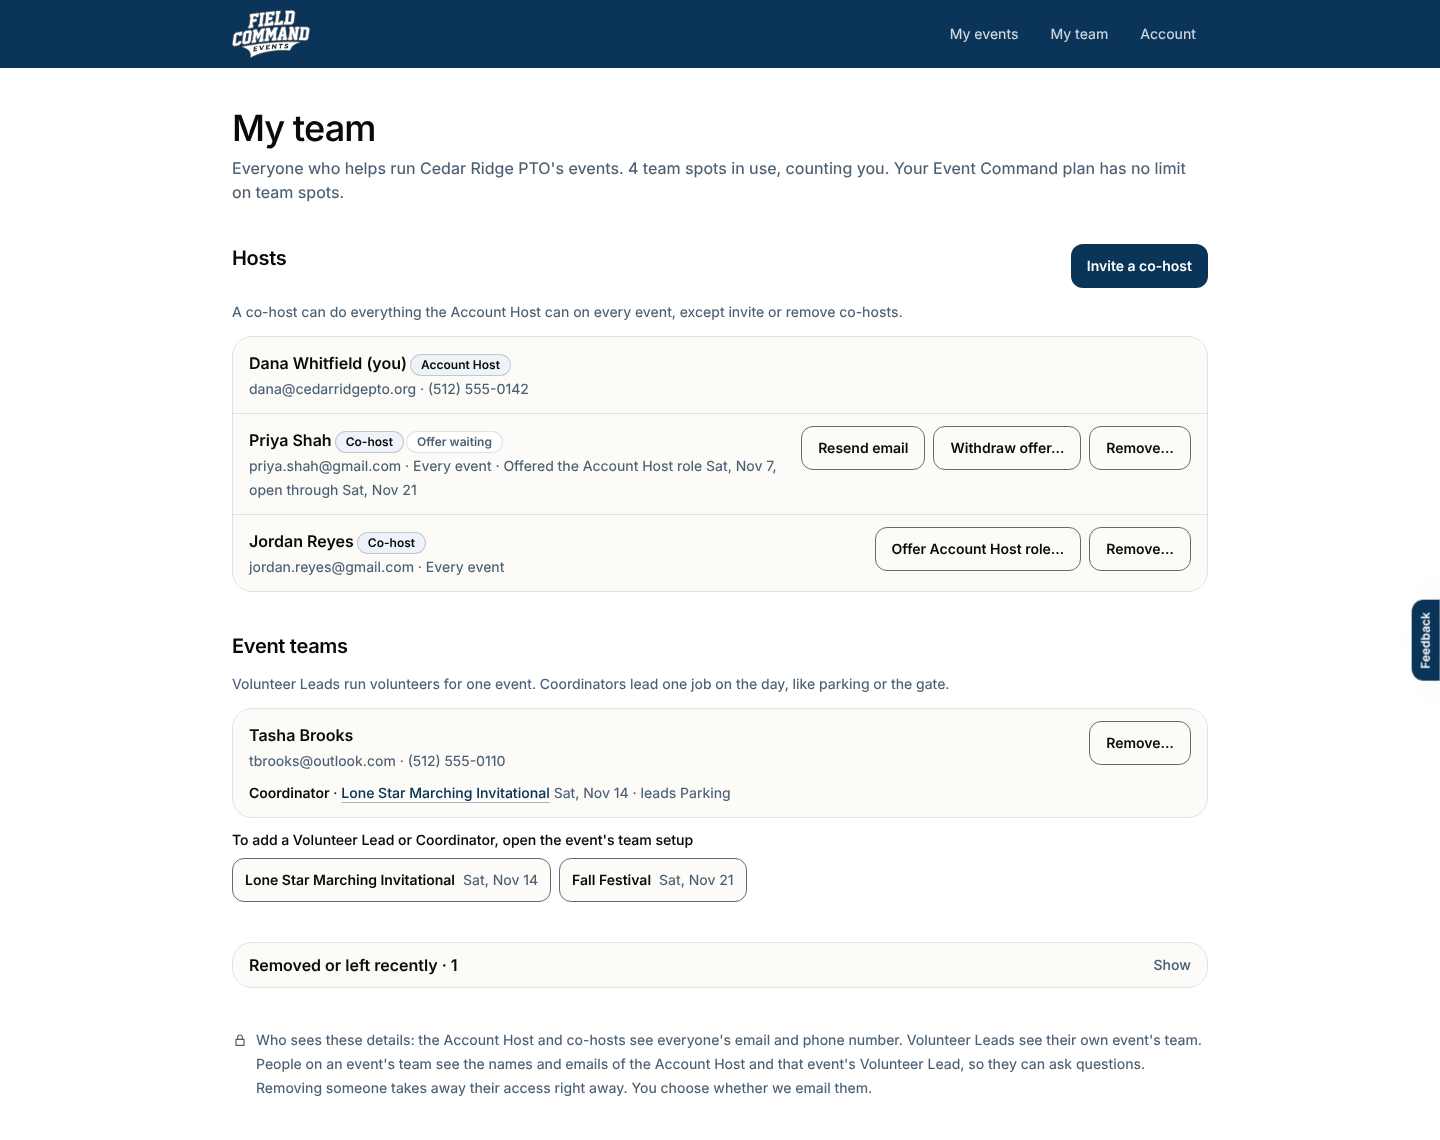
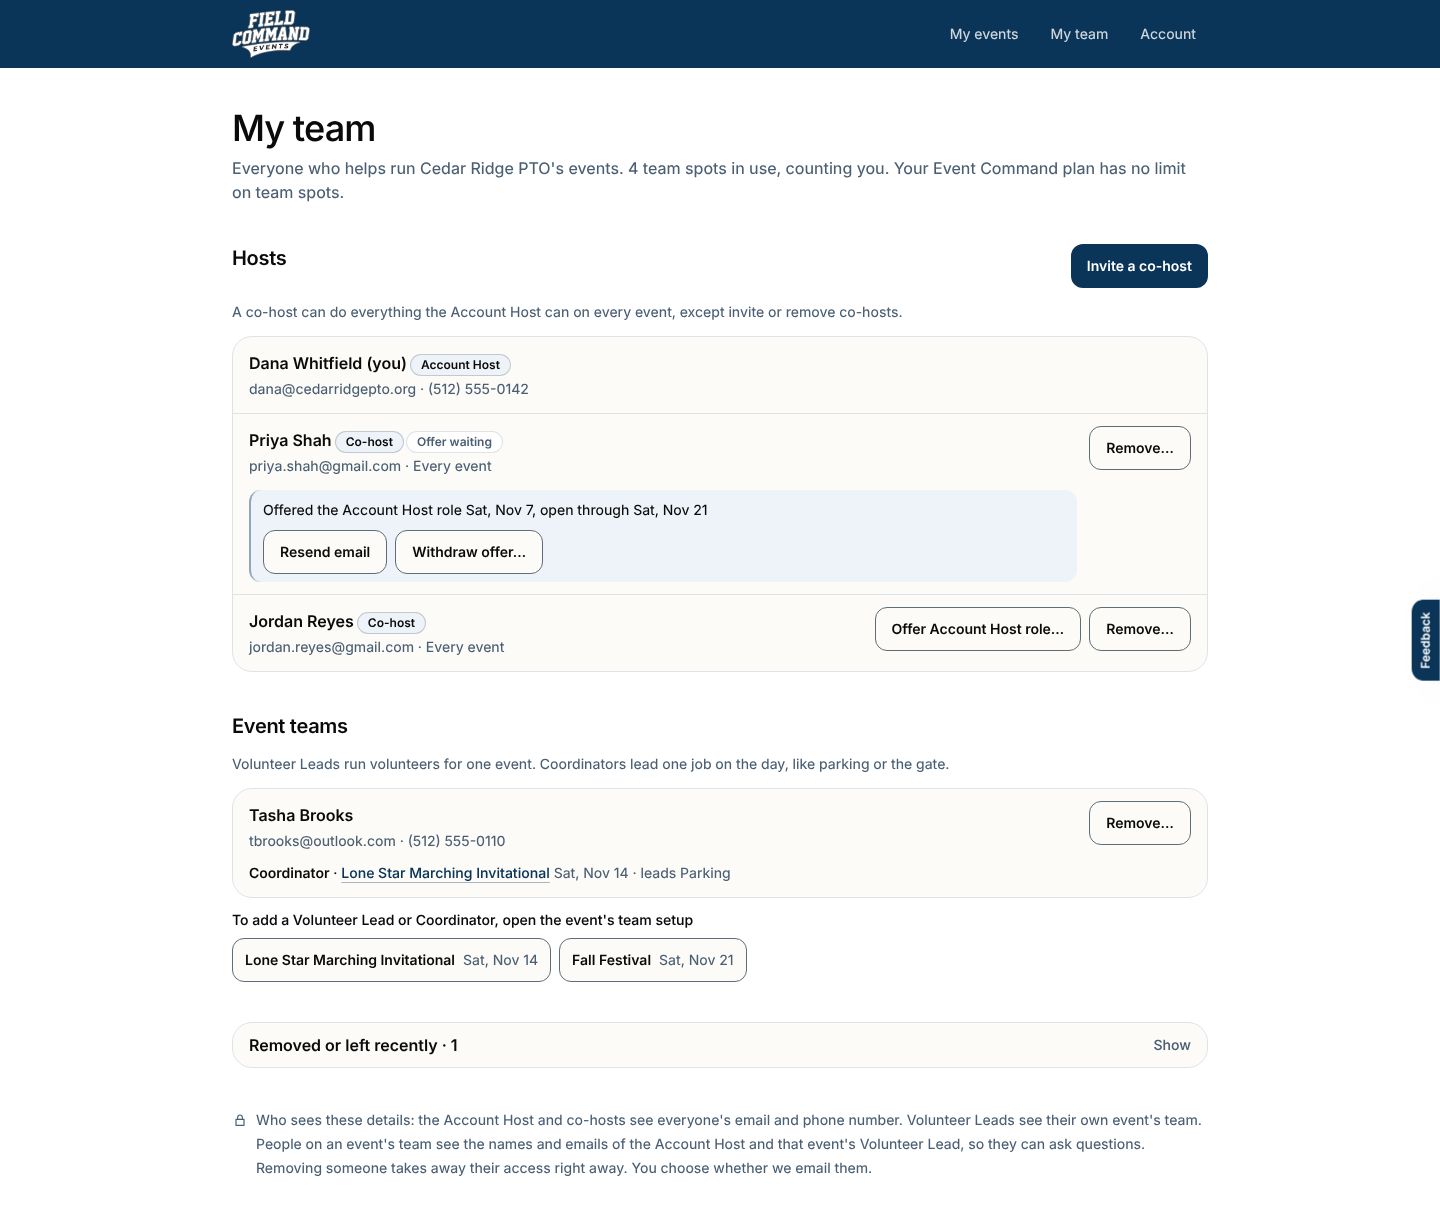
Handing on: one lock order, and the offer as its own block in the row
- Accepting locks the member rows before the offer, like making an offer and
  removing a co-host, so they can't deadlock; test for an offer from a former
  Account Host
- On My team, an open offer is its own block (its line, Resend email, and
  Withdraw offer…) so it reads apart from Remove… on phones
- Resend email's name for voice control matches its words

Claude-Session: https://claude.ai/code/session_015NaEPpF7tacknYvkWK5f8d

diff --git a/src/app/dashboard/team/view.tsx b/src/app/dashboard/team/view.tsx
@@ -261,8 +261,39 @@ function HostSections({ view, me, becameHost }: { view: HostView; me: string; be
                   h.profile.email,
                   formatPhone(h.profile.phone),
                   h.role === "admin" ? "Every event" : null,
-                  view.offer?.userId === h.userId && !you ? `Offered the Account Host role ${short(view.offer.offeredOn)}, open through ${short(view.offer.expiresOn)}` : null,
+                  view.offer?.userId === h.userId && !you && !isAccountHost ? `Offered the Account Host role ${short(view.offer.offeredOn)}, open through ${short(view.offer.expiresOn)}` : null,
                 ]}
+                // The offer's own buttons sit under its line, apart from Remove… (which stays put on every row).
+                after={
+                  view.offer?.userId === h.userId && isAccountHost ? (
+                    // The offer as its own block (its line and its buttons), so it reads apart from Remove… at every width.
+                    <div className="mt-3 space-y-2 rounded-md border-l-2 border-brand/40 bg-brand-soft px-3 py-2">
+                      <p className="text-sm leading-6">
+                        Offered the Account Host role {short(view.offer.offeredOn)}, open through {short(view.offer.expiresOn)}
+                      </p>
+                      <div className="flex flex-wrap gap-2">
+                      <RowButton action={resendAccountHostOffer.bind(null, org.id, name)} pendingText="Sending…" label={`Resend email: ${name}`}>
+                        Resend email
+                      </RowButton>
+                      <ConfirmButton
+                        action={withdrawAccountHostOffer.bind(null, org.id, h.userId, name)}
+                        label={`Withdraw offer… ${name}`}
+                        title={`Withdraw your offer to ${name}?`}
+                        points={[
+                          `${first(name)}'s link stops working, and we'll email them that you withdrew it`,
+                          "You stay the Account Host. You can offer the role again any time",
+                        ]}
+                        keepLabel="Keep the offer"
+                        confirmLabel="Withdraw offer"
+                        pendingText="Withdrawing…"
+                        danger={false}
+                      >
+                        Withdraw offer…
+                      </ConfirmButton>
+                      </div>
+                    </div>
+                  ) : null
+                }
                 actions={
                   h.role === "admin" && you ? (
                     <ConfirmButton
@@ -282,28 +313,7 @@ function HostSections({ view, me, becameHost }: { view: HostView; me: string; be
                     </ConfirmButton>
                   ) : h.role === "admin" && isAccountHost ? (
                     <>
-                    {view.offer?.userId === h.userId ? (
-                      <>
-                        <RowButton action={resendAccountHostOffer.bind(null, org.id, name)} pendingText="Sending…" label={`Resend offer email: ${name}`}>
-                          Resend email
-                        </RowButton>
-                        <ConfirmButton
-                          action={withdrawAccountHostOffer.bind(null, org.id, h.userId, name)}
-                          label={`Withdraw offer… ${name}`}
-                          title={`Withdraw your offer to ${name}?`}
-                          points={[
-                            `${first(name)}'s link stops working, and we'll email them that you withdrew it`,
-                            "You stay the Account Host. You can offer the role again any time",
-                          ]}
-                          keepLabel="Keep the offer"
-                          confirmLabel="Withdraw offer"
-                          pendingText="Withdrawing…"
-                          danger={false}
-                        >
-                          Withdraw offer…
-                        </ConfirmButton>
-                      </>
-                    ) : (
+                    {view.offer?.userId === h.userId ? null : (
                       <ConfirmButton
                         action={offerAccountHost.bind(null, org.id, h.userId, name)}
                         label={`Offer Account Host role… ${name}`}

diff --git a/docs/design-decisions/2026-11-07-my-team-part-3.md b/docs/design-decisions/2026-11-07-my-team-part-3.md
@@ -27,7 +27,7 @@ Review: docs/design-reviews/2026-11-07-my-team-part-3-light-check.md. No severit
 | 5 | Engineering: a second Accept emails twice; Withdraw acts on whatever is open; offer page shows details on old links; missing tests | 2 | Take the advice | Accept again changes nothing and emails nobody; withdraw and decline name which they mean; offer page shows details only while open, never a full email; 6 new security tests; Undo is one person at a time; the database returns an offer's id, not its token |
 | 6 | Dark mode has no grey for supporting text | 2 | Keep as is | The site-wide rule (docs/DESIGN.md: dark mode has no grey text) stays; My team sets lines apart with bold names and tinted notes instead |
 | — | Smaller wording and polish (Decline…, one date format, one-sentence offer headline, sign-in line, "See your plan", email wording, "No Coordinators yet") | 1 | Take the advice | |
-| — | Lock order, phone button layout | 1 | Later | |
+| — | Lock order, phone button layout | 1 | Later, then built | See the second follow-up below |
 
 ## Follow-up: the "Later" items (2026-11-07)
 
@@ -43,3 +43,19 @@ severity 3 or 4. Screenshots 15–17 in `docs/design-reviews/2026-11-07-my-team-
 | 3 | Resend too soon looks like an error | 2 | Take the advice | A calm message, "Already sent … You can send it again in about N minutes" (no clock time, so no time-zone mix-up) |
 | 4 | Resend wording and when the spam tip shows | 2 | Take the advice | Spam tip after a resend that worked too |
 | 5 | "Handing on" wording, a button named mid-sentence | 2 | Take the advice | "Passing the account to someone new? Choose Offer Account Host role on their row" |
+
+## Follow-up: lock order and the offer row's buttons (2026-11-07)
+
+- **Lock order:** accepting an offer now locks the account's member rows before the offer, the same
+  order as making an offer and removing a co-host, so they can't deadlock
+  (`20270122000000_handoff_lock_order.sql`). A test covers an offer from someone who is no longer
+  the Account Host. (The old version also tried to mark that offer "replaced" just before raising
+  the error, which the error undid; that line is gone.)
+- **Offer row:** light check (UX Designer, UI Designer, consultant), no severity 3 or 4.
+
+| # | Finding | Severity | Decision | Notes |
+|---|---|---|---|---|
+| 1 | On phones the offer's buttons and Remove… still read as one wrapped row | 2 | Take the advice | The offer is its own tinted block in the row: its line, then Resend email and Withdraw offer… |
+| 2 | The offer line was joined onto the email and access line | 2 | Take the advice | Its own line, inside the block |
+| 3 | "Resend email" button's name for voice control didn't contain its visible words | 2 | Take the advice | "Resend email: {name}" |
+| 4 | Remove… is reached last with Tab on desktop | 1 | Keep as is | The left column (the person and their offer) reads first |
